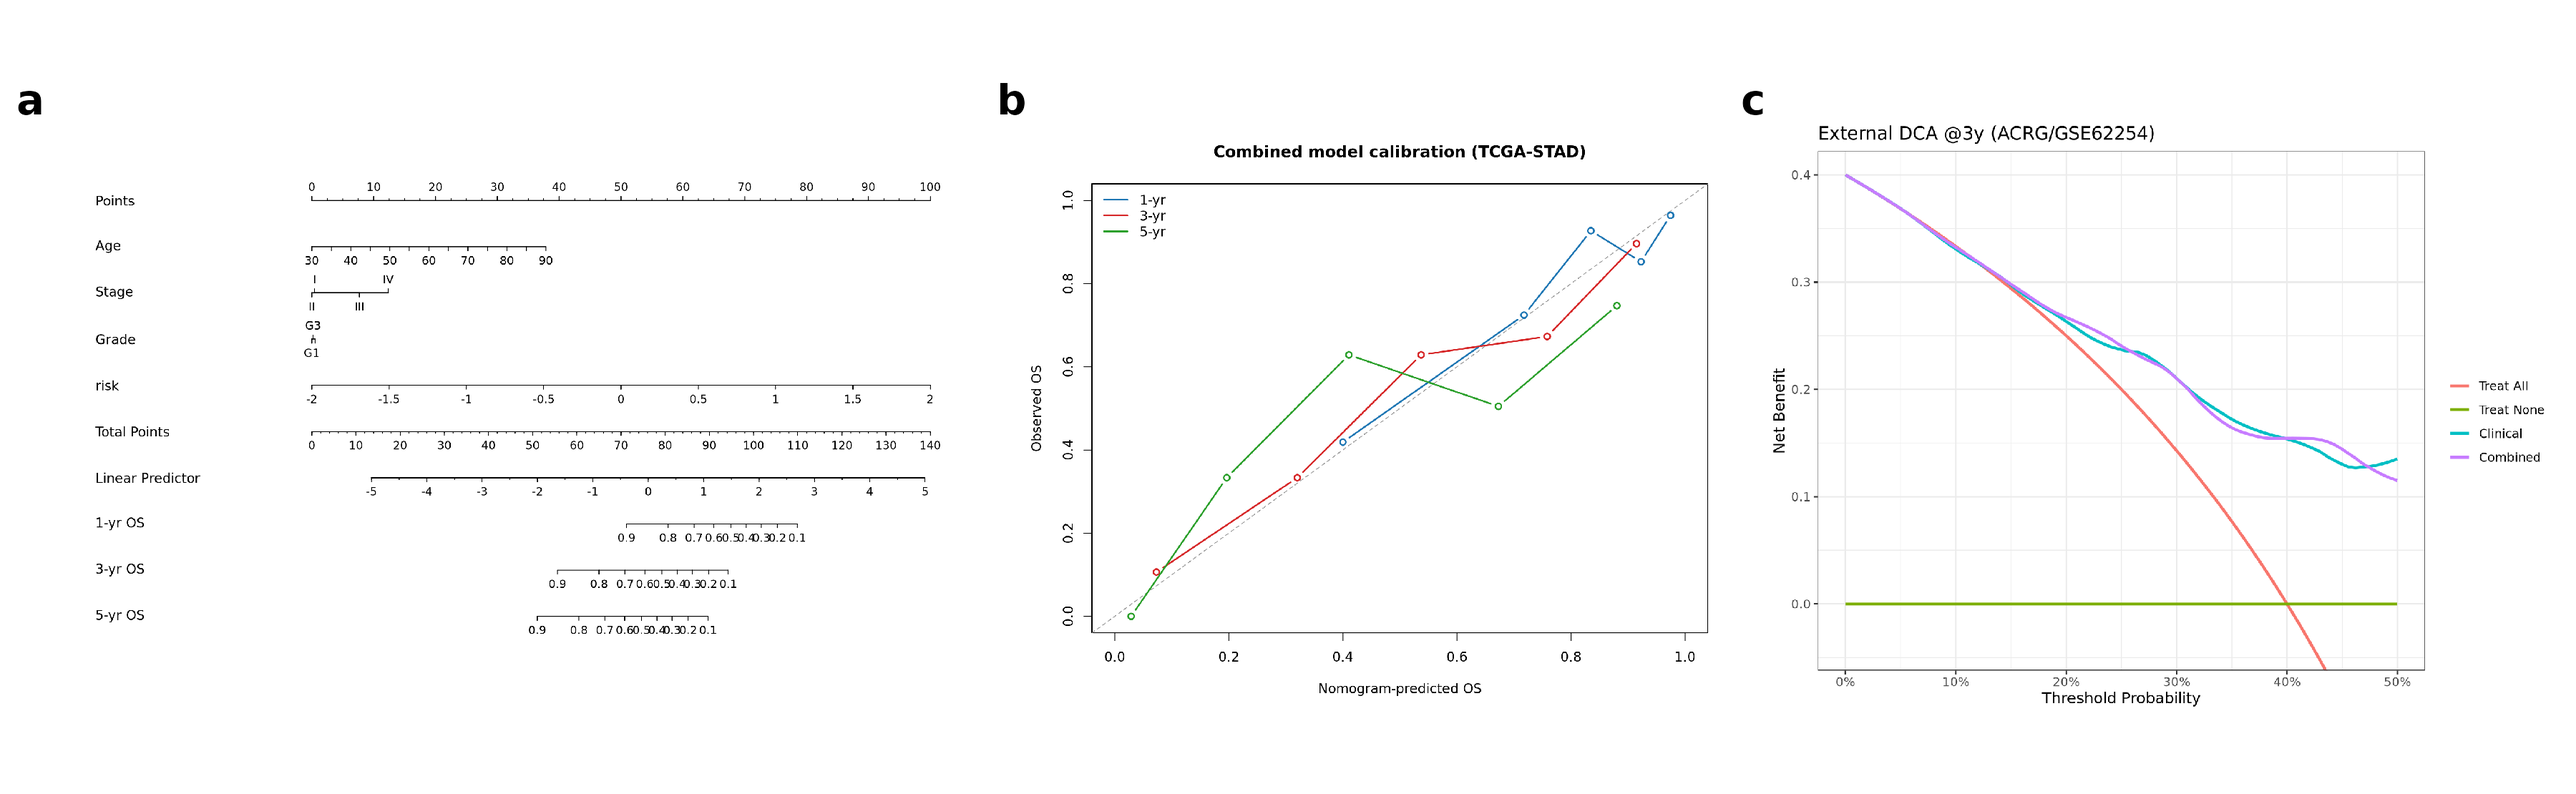
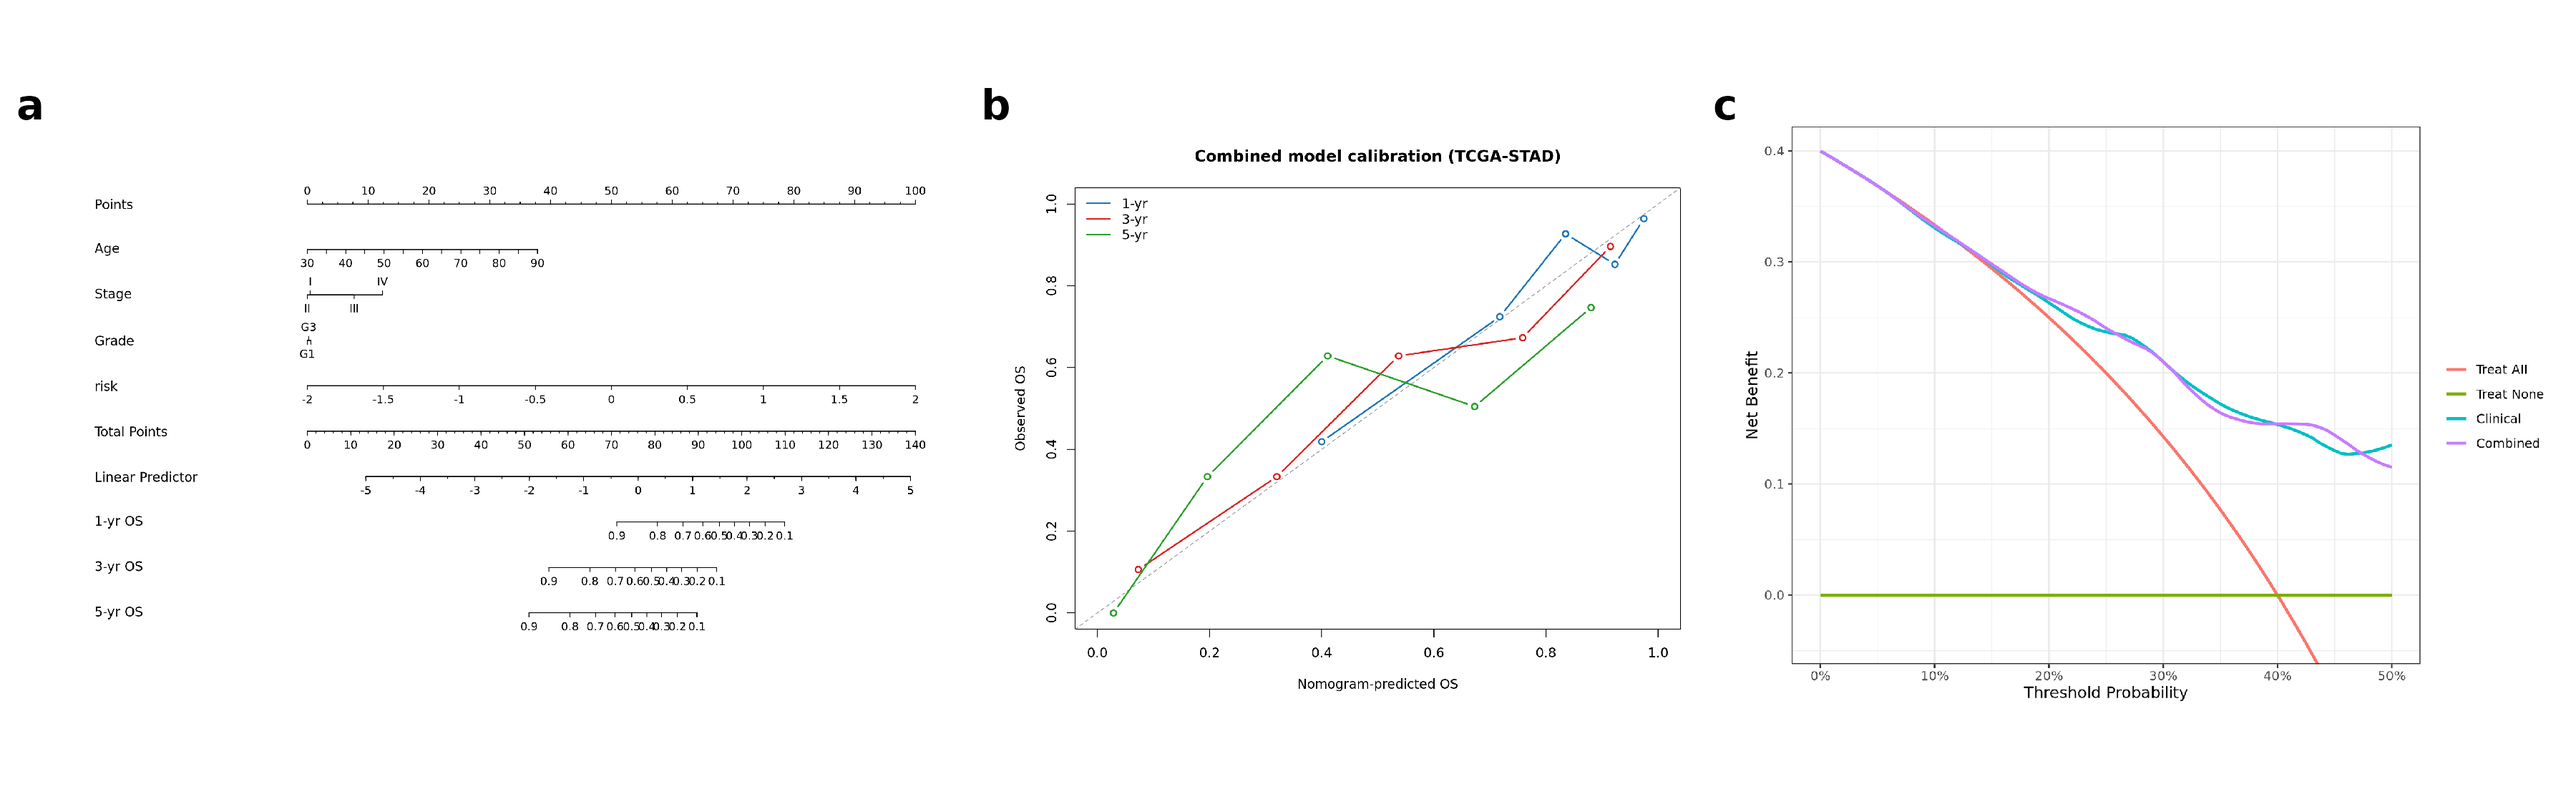
Fix S8(a) caption: panel plots the CD8 score (rho 0.47), not the T-cell score (rho 0.67); remove in-panel titles from immune and external-DCA components at source and crop them in the montages

diff --git a/PAPER.md b/PAPER.md
@@ -380,7 +380,7 @@ Files: `results/microbiome_biomarker/04a_DA_control_vs_GCN.csv`, `04b_DA_GCN_vs_
 
 Supplementary Figure S8. Immune infiltration with deconvolution validated against pathology.
 
-(a) Scatter plot of the deconvolution-derived T-cell score against the measured histological leukocyte fraction scored by a pathologist (Spearman rho = 0.67, P = 3.6 x 10-36), establishing that the expression-based estimates track true tissue composition.
+(a) Scatter plot of the deconvolution-derived CD8 T-cell score (MCP-counter) against the measured histological leukocyte percentage scored by a pathologist (Spearman rho = 0.47, P = 3.1 x 10-16, n = 272), establishing that the expression-based estimates track true tissue composition. The overall T-cell and ImmuneScore estimates correlate more strongly with the same measurement (rho = 0.67 and 0.65 respectively; Results section 3.3), consistent with the deconvolution capturing total immune burden better than a single lymphocyte subset.
 
 (b) Comparison of immune compartments between tumour and normal tissue. Enrichment is dominated by the macrophage and monocyte lineage, with no net gain in CD8-positive T cells.
 
